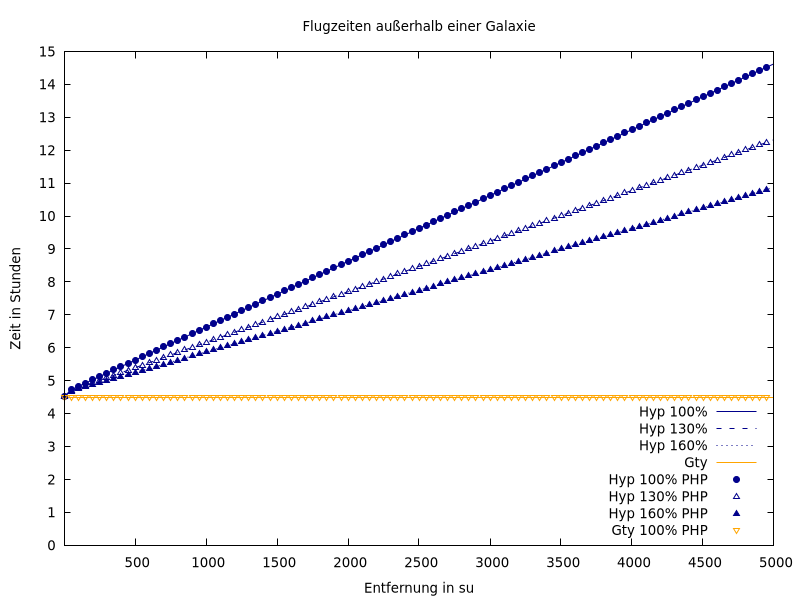
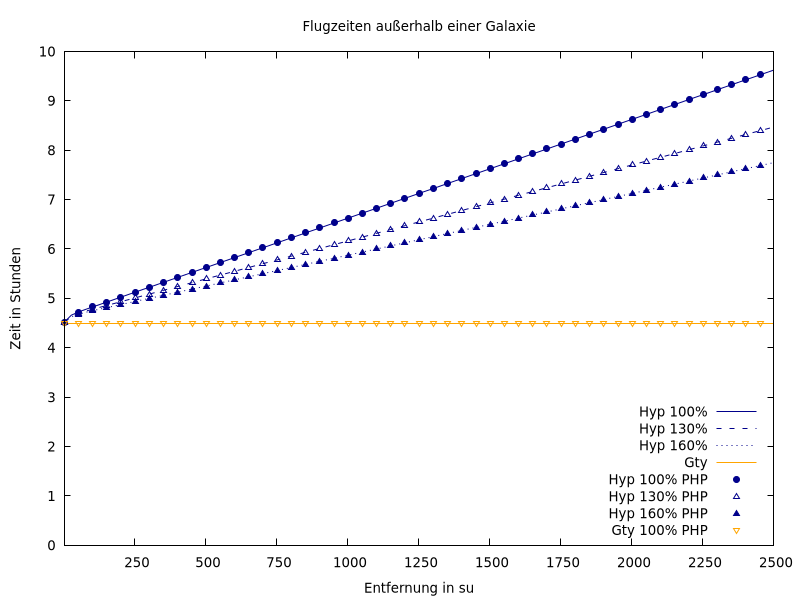
Entfernung Galaextern auf 2500su beschränkt

diff --git a/src/gnuplot-data-erzeugen.php b/src/gnuplot-data-erzeugen.php
@@ -26,7 +26,7 @@ $data = fopen('../plots/flugzeiten-galaextern.txt', 'w');
 
 fwrite($data, "# Entfernung Hyp100 Hyp130 Hyp160 Gty100\n");
 
-for($entfernung = 1; $entfernung <=5000; $entfernung += 50) {
+for($entfernung = 1; $entfernung <=2500; $entfernung += 50) {
     $line = [$entfernung];
     array_push($line, \LW\Flotten\flugzeit($entfernung, 1, 'hyp')/3600);
     array_push($line, \LW\Flotten\flugzeit($entfernung, 1.3, 'hyp')/3600);
@@ -62,7 +62,7 @@ $data = fopen('../plots/verbrauch-galaextern.txt', 'w');
 
 fwrite($data, "# Entfernung Hyp100 Hyp130 Hyp160 Gty100\n");
 
-for($entfernung = 1; $entfernung <=5000; $entfernung += 50) {
+for($entfernung = 1; $entfernung <=2500; $entfernung += 50) {
     $line = [$entfernung];
     array_push($line, \LW\Flotten\verbrauch($entfernung, 1, 'hyp', 1000));
     array_push($line, \LW\Flotten\verbrauch($entfernung, 1.3, 'hyp', 1000));
